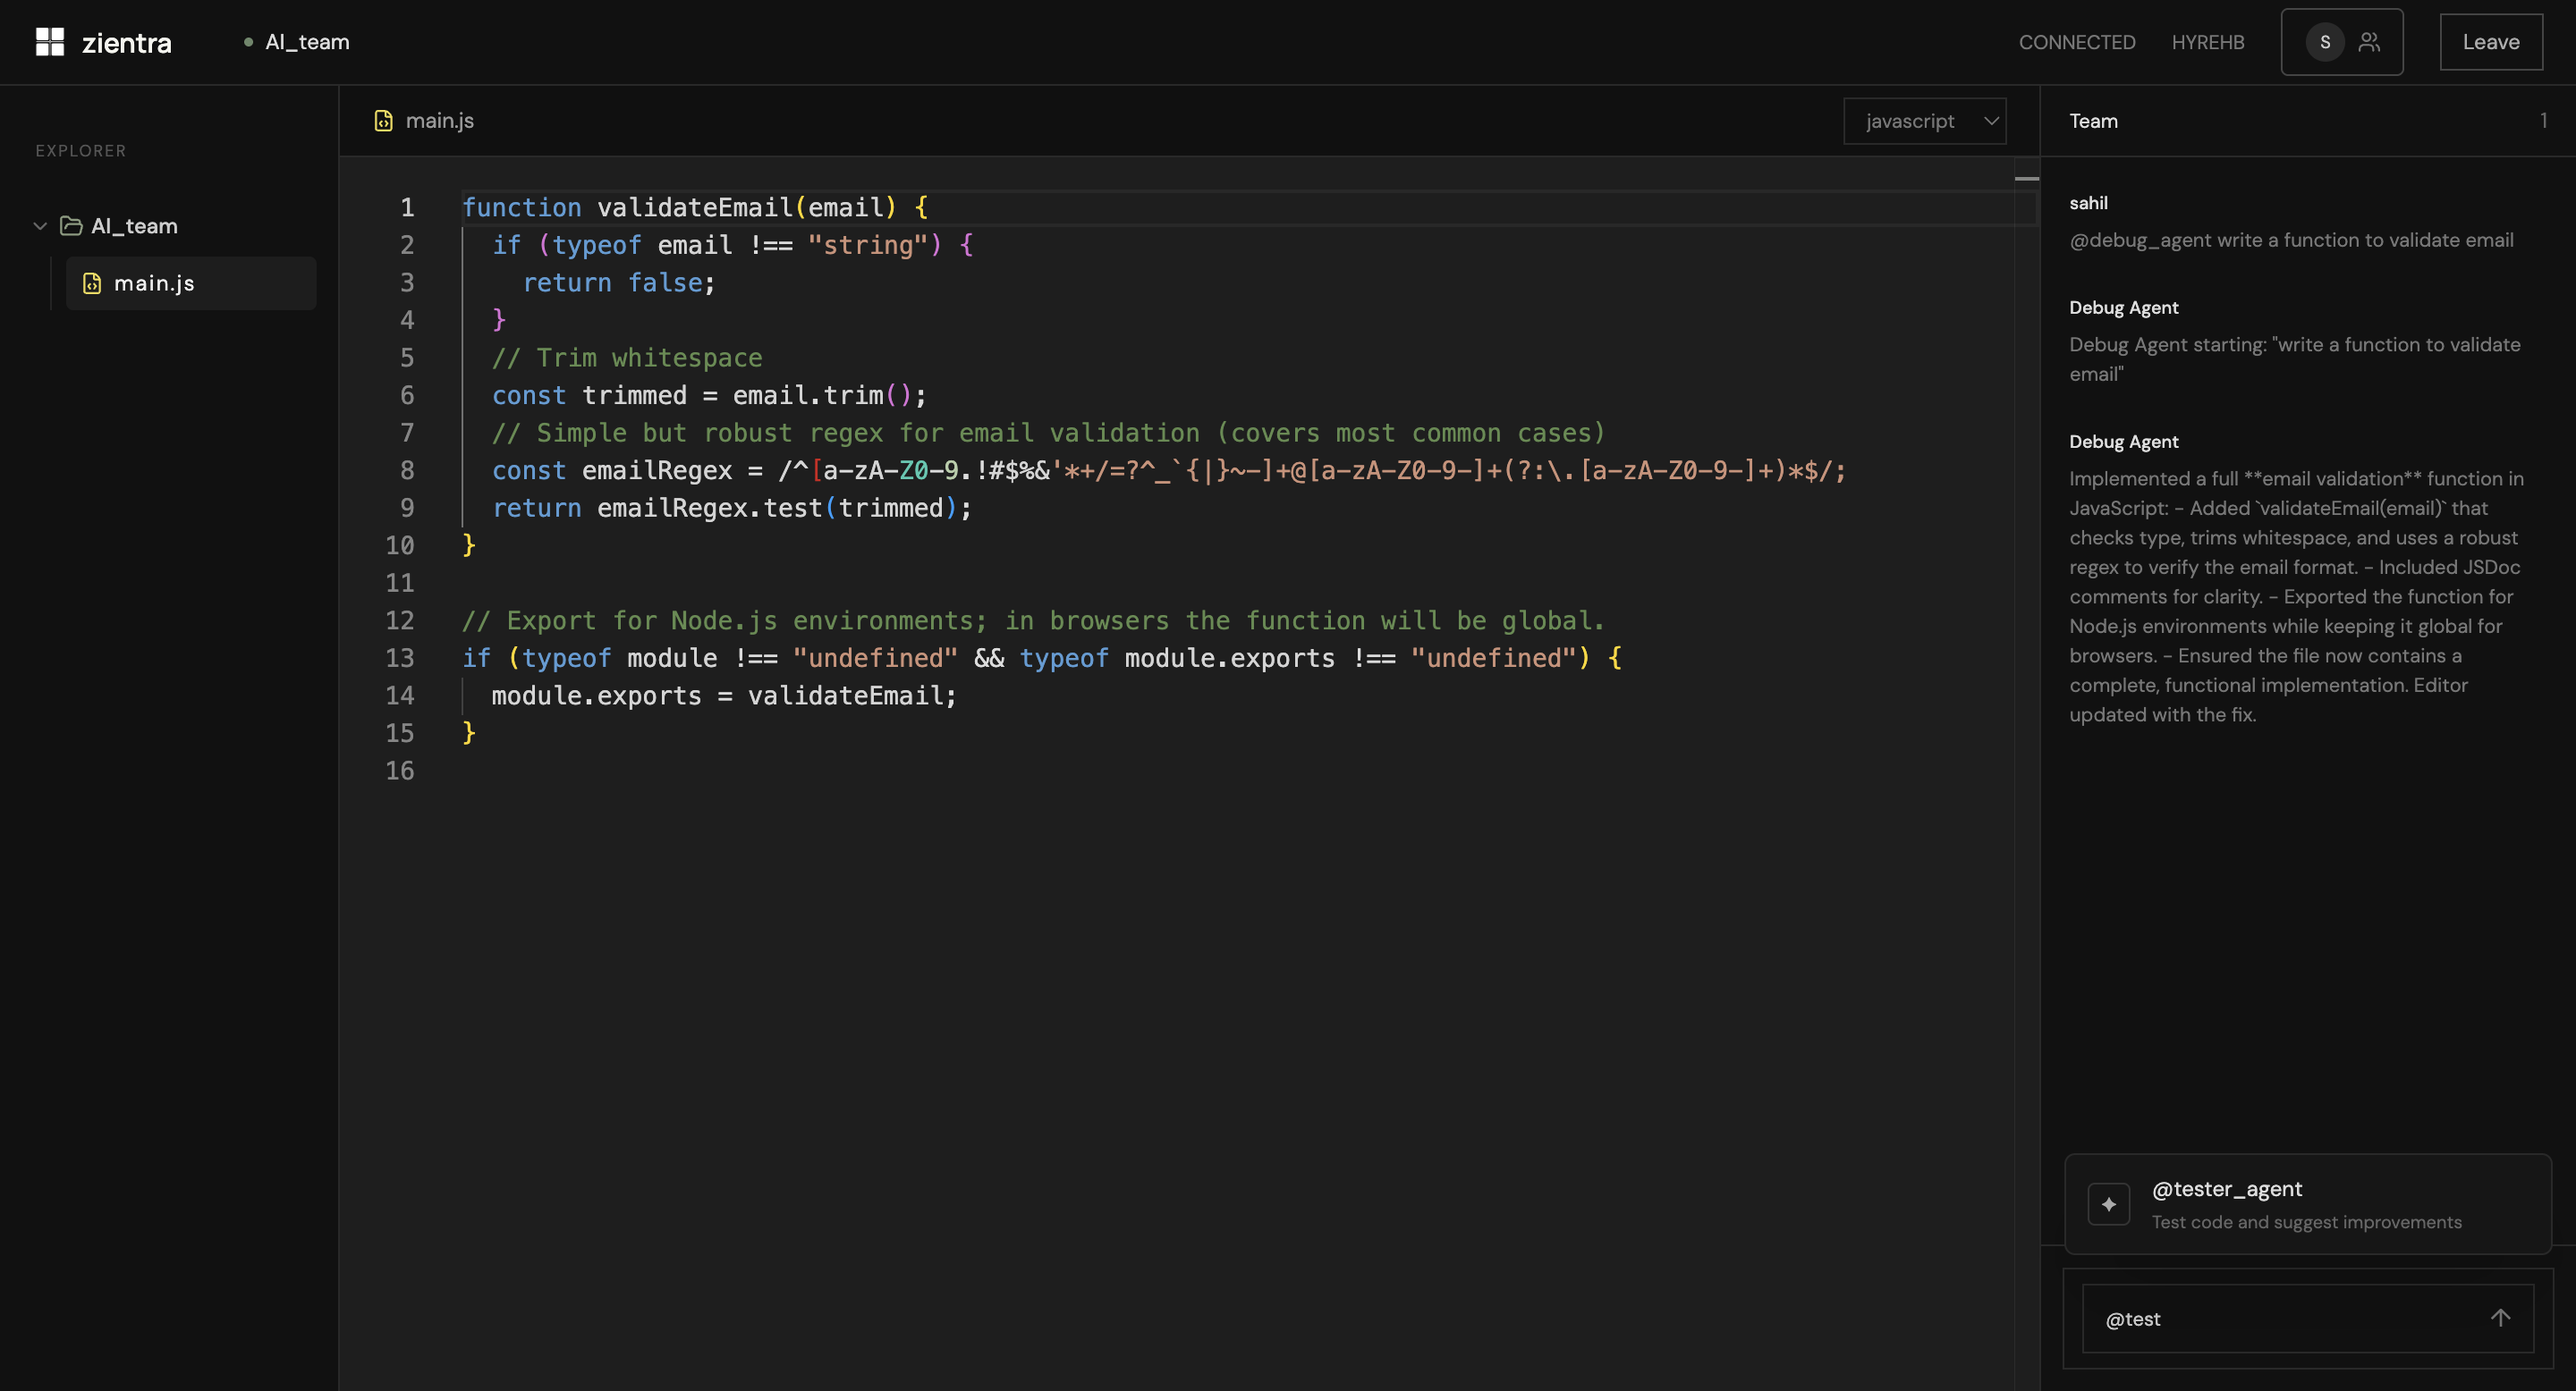
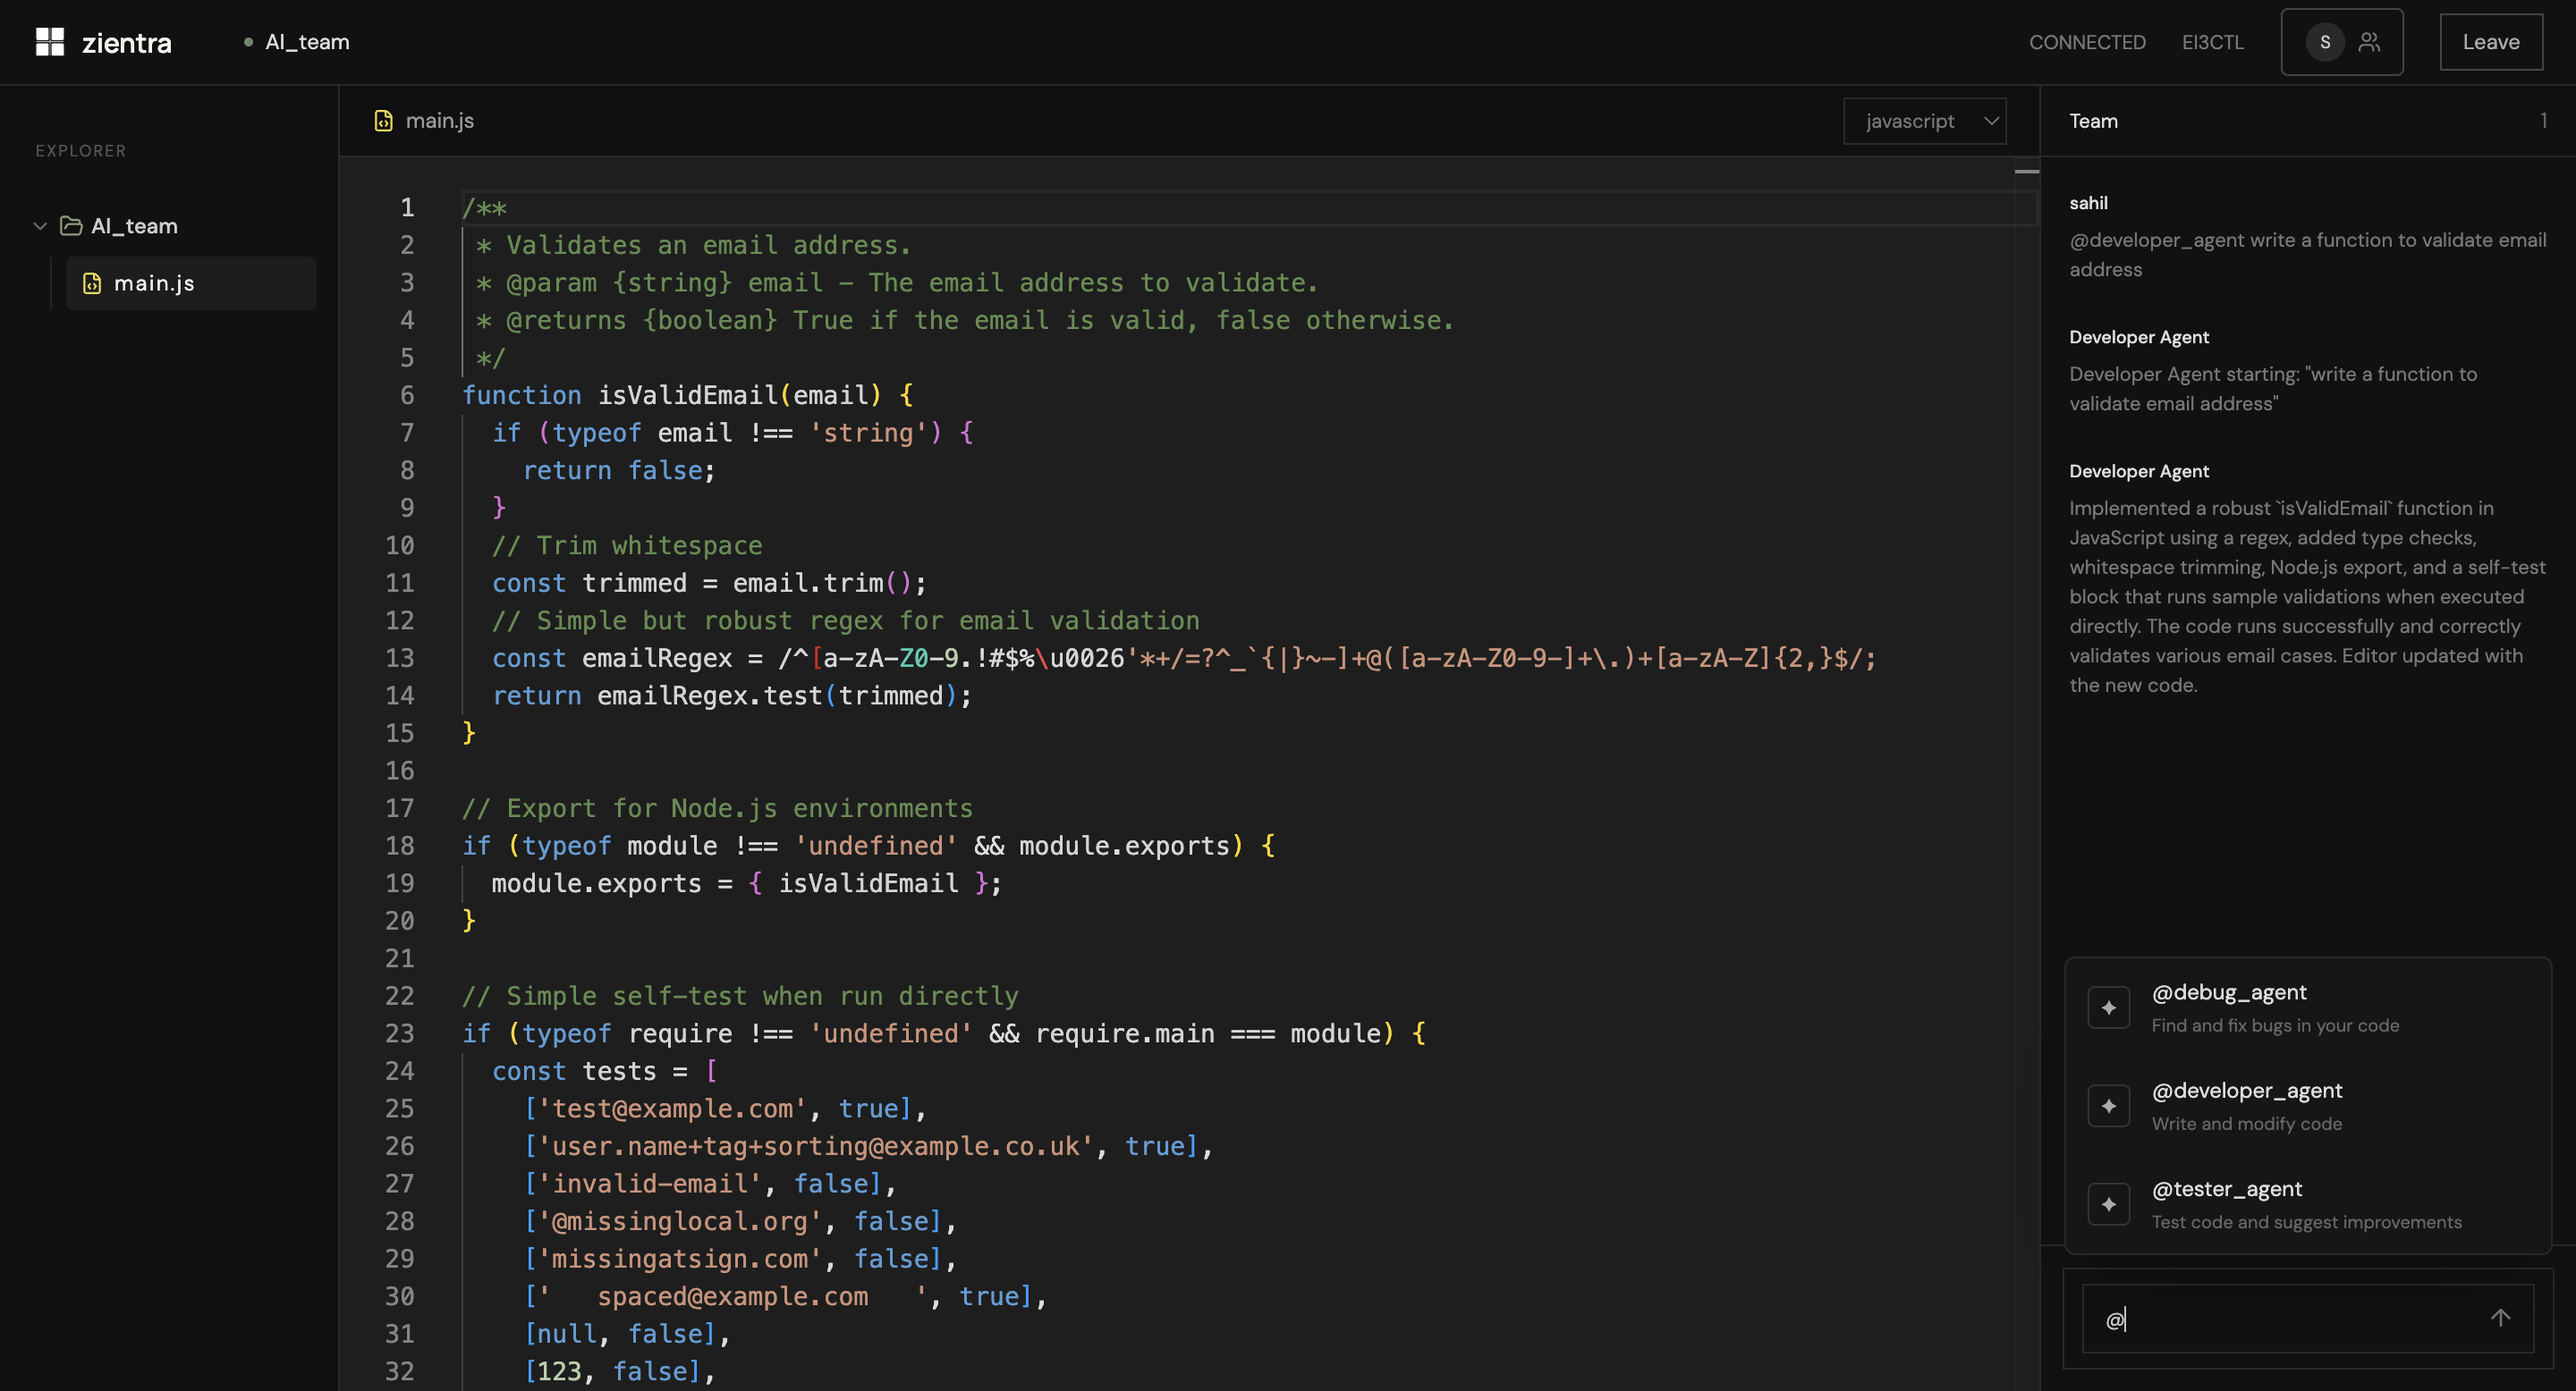
fix: Navbar CTA fixed

diff --git a/src/components/nav.tsx b/src/components/nav.tsx
@@ -100,8 +100,8 @@ const Nav = () => {
 
 
                 {/* Desktop CTA */}
-                <a
-                    href="/waitlist"
+                <Link
+                    to="/waitlist"
                     className="
                         hidden
                         md:flex
@@ -130,7 +130,7 @@ const Nav = () => {
                     <span className="text-xs lg:text-sm">
                         ↗
                     </span>
-                </a>
+                </Link>
 
 
                 {/* Mobile Hamburger */}
@@ -283,33 +283,34 @@ const Nav = () => {
                     </Link>
 
 
-                    <a
-                        href="/#waitlist"
-                        onClick={closeMenu}
-                        className="
-                            mt-10
-                            w-fit
-                            flex
-                            items-center
-                            gap-3
-                            bg-[#111111]
-                            !text-[#f5f5ee]
-                            px-5
-                            py-3.5
-                            rounded
-                            text-sm
-                            hover:bg-[#111111]
-                            hover:!text-[#f5f5ee]
-                        "
-                    >
-                        <span className="!text-[#f5f5ee]">
-                            Join waitlist
-                        </span>
+                    <Link
+    to="/waitlist"
+    onClick={closeMenu}
+    className="
+        mt-10
+        w-fit
+        flex
+        items-center
+        gap-3
+        bg-[#111111]
+        !text-[#f5f5ee]
+        px-5
+        py-3.5
+        rounded
+        text-sm
+        font-medium
+        hover:bg-[#222222]
+        transition-colors
+    "
+>
+    <span className="!text-[#f5f5ee]">
+        Join waitlist
+    </span>
 
-                        <span className="!text-[#f5f5ee]">
-                            ↗
-                        </span>
-                    </a>
+    <span className="!text-[#f5f5ee]">
+        ↗
+    </span>
+</Link>
 
                 </div>
 

diff --git a/src/components/hero.tsx b/src/components/hero.tsx
@@ -1,6 +1,5 @@
 import { motion, type Variants } from "framer-motion";
-// import { useState } from 'react';
-// import type { FormEvent } from "react";
+import { Link } from "react-router-dom";
 
 
   const heroContainer: Variants = {
@@ -157,37 +156,32 @@ const Hero = () => {
 
                         </motion.form> */}
 
-                        <a
-                    href="/waitlist"
-                    className="
-                        hidden
-                        md:flex
-                        items-center
-                        gap-1 sm:gap-2
-                        px-3
-                        lg:px-4
-                        py-2
-                        lg:py-2.5
-                        border
-                        border-[#111111]
-                        rounded
-                        text-[#111111]
-                        text-[11px]
-                        lg:text-[14px]
-                        font-medium
-                        whitespace-nowrap
-                        hover:bg-[#111111]
-                        hover:text-[#f5f5ee]
-                        transition-colors
-                        shrink-0
-                    "
-                >
-                    Join waitlist
+                        <Link
+    to="/waitlist"
+    className="
+        flex
+        items-center
+        gap-2
+        px-4
+        py-2.5
+        border
+        border-[#111111]
+        rounded
+        text-[#111111]
+        text-[13px]
+        font-medium
+        whitespace-nowrap
+        hover:bg-[#111111]
+        hover:text-[#f5f5ee]
+        transition-colors
+    "
+>
+    Join waitlist
 
-                    <span className="text-xs lg:text-sm">
-                        ↗
-                    </span>
-                </a>
+    <span>
+        ↗
+    </span>
+</Link>
 
 
                         <motion.p

diff --git a/src/platform/platform.tsx b/src/platform/platform.tsx
@@ -685,7 +685,7 @@
 //                 <div className="platform-home-logo">
 
 //                     <img
-//                         src="/logo_no.png"
+//                         src="/logo_nobg.png"
 //                         alt="Zientra"
 //                     />
 
